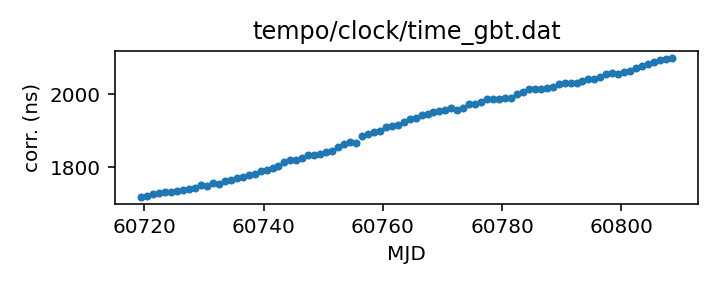
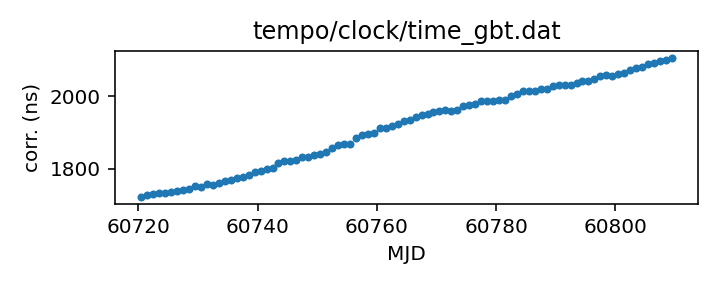
Routine gh-pages update from Github action Thu May 15 20:43:15 UTC 2025

diff --git a/status.md b/status.md
@@ -13,18 +13,18 @@ name of each clock file links to a page with more details.
 
 | Name | File | Corrections start | Corrections end | Last check date | Last check result 
 |:--- |:--- | --- | --- | --- |:--- 
-| [GPS to UTC](T2runtime/clock/gps2utc.clk.html) | `T2runtime/clock/gps2utc.clk` | 1993-01-01 MJD 48988.0 | 2025-04-29 MJD 60794.0 | 2025-05-14 | Unchanged 
-| [GPS to UTC (Combined Clock)](T2runtime/clock/gps2utc_cc.clk.html) | `T2runtime/clock/gps2utc_cc.clk` | 1993-01-01 MJD 48988.0 | 2025-04-29 MJD 60794.0 | 2025-05-14 | Unchanged 
-| [GPS to UTC (Corrected)](T2runtime/clock/gps2utc_c0p.clk.html) | `T2runtime/clock/gps2utc_c0p.clk` | 2010-12-29 MJD 55559.0 | 2025-04-29 MJD 60794.0 | 2025-05-14 | Unchanged 
-| [GBT](tempo/clock/time_gbt.dat.html) | `tempo/clock/time_gbt.dat` | 2000-12-31 MJD 51909.5 | 2025-05-13 MJD 60808.5 | 2025-05-14 | Updated 
-| [GBT (TEMPO2 converted from TEMPO)](T2runtime/clock/gbt2gps.clk.html) | `T2runtime/clock/gbt2gps.clk` | 2000-12-31 MJD 51909.5 | 2024-05-18 MJD 60448.5 | 2025-05-14 | **Validation failed** 
+| [GPS to UTC](T2runtime/clock/gps2utc.clk.html) | `T2runtime/clock/gps2utc.clk` | 1993-01-01 MJD 48988.0 | 2025-04-29 MJD 60794.0 | 2025-05-15 | Unchanged 
+| [GPS to UTC (Combined Clock)](T2runtime/clock/gps2utc_cc.clk.html) | `T2runtime/clock/gps2utc_cc.clk` | 1993-01-01 MJD 48988.0 | 2025-04-29 MJD 60794.0 | 2025-05-15 | Unchanged 
+| [GPS to UTC (Corrected)](T2runtime/clock/gps2utc_c0p.clk.html) | `T2runtime/clock/gps2utc_c0p.clk` | 2010-12-29 MJD 55559.0 | 2025-04-29 MJD 60794.0 | 2025-05-15 | Unchanged 
+| [GBT](tempo/clock/time_gbt.dat.html) | `tempo/clock/time_gbt.dat` | 2000-12-31 MJD 51909.5 | 2025-05-14 MJD 60809.5 | 2025-05-15 | Updated 
+| [GBT (TEMPO2 converted from TEMPO)](T2runtime/clock/gbt2gps.clk.html) | `T2runtime/clock/gbt2gps.clk` | 2000-12-31 MJD 51909.5 | 2024-05-18 MJD 60448.5 | 2025-05-15 | **Validation failed** 
 | [Jodrell Bank](T2runtime/clock/jb2gps.clk.html) | `T2runtime/clock/jb2gps.clk` | 2006-10-13 MJD 54021.4 | 2024-11-07 MJD 60621.0 | 2025-05-12 | Unchanged 
 | [Jodrell Bank Roach](T2runtime/clock/jbroach2jb.clk.html) | `T2runtime/clock/jbroach2jb.clk` | 2006-10-13 MJD 54021.4 | 2018-03-20 MJD 58197.6 | 2025-05-12 | Unchanged 
 | [Jodrell Bank DFB](T2runtime/clock/jbdfb2jb.clk.html) | `T2runtime/clock/jbdfb2jb.clk` | 2006-10-13 MJD 54021.4 | 2021-02-22 MJD 59268.0 | 2025-05-12 | Unchanged 
 | [Meerkat (observatory)](T2runtime/clock/mk2utc_observatory.clk.html) | `T2runtime/clock/mk2utc_observatory.clk` | 2019-01-01 MJD 58484.0 | 2025-04-30 MJD 60796.0 | 2025-05-12 | Updated 
-| [Leap seconds](tempo/clock/leap.sec.html) | `tempo/clock/leap.sec` | 1972-07-01 MJD 41499.0 | 2017-01-01 MJD 57754.0 | 2025-05-14 | Unchanged 
-| [UT1 table](tempo/clock/ut1.dat.html) | `tempo/clock/ut1.dat` | 1973-01-02 MJD 41684.0 | 2026-05-16 MJD 61176.0 | 2025-05-14 | Unchanged 
-| [UT1 table](T2runtime/clock/ut1.dat.html) | `T2runtime/clock/ut1.dat` | 1973-01-02 MJD 41684.0 | 2026-05-16 MJD 61176.0 | 2025-05-14 | Unchanged 
+| [Leap seconds](tempo/clock/leap.sec.html) | `tempo/clock/leap.sec` | 1972-07-01 MJD 41499.0 | 2017-01-01 MJD 57754.0 | 2025-05-15 | Unchanged 
+| [UT1 table](tempo/clock/ut1.dat.html) | `tempo/clock/ut1.dat` | 1973-01-02 MJD 41684.0 | 2026-05-23 MJD 61183.0 | 2025-05-15 | Updated 
+| [UT1 table](T2runtime/clock/ut1.dat.html) | `T2runtime/clock/ut1.dat` | 1973-01-02 MJD 41684.0 | 2026-05-23 MJD 61183.0 | 2025-05-15 | Updated 
 
 
 

diff --git a/T2runtime/clock/gbt2gps.clk.md b/T2runtime/clock/gbt2gps.clk.md
@@ -25,12 +25,11 @@ If questions arise about the conversion, contact Anne Archibald
 | Clock file start | 2000-12-31 MJD 51909.5 |
 | Clock file end | 2024-05-18 MJD 60448.5 |
 | Update interval (days) | 1 |
-| Last update attempt | 2025-05-14 |
+| Last update attempt | 2025-05-15 |
 | Last update result | Validation failed |
 
 Log entries from the last few update attempts:
 ```
-2025-05-05 20:37:50.823 - Validation failed: New version of T2runtime/clock/gbt2gps.clk clock corrections differ from old version where they overlap in 11 places
 2025-05-06 20:41:53.286 - Validation failed: New version of T2runtime/clock/gbt2gps.clk clock corrections differ from old version where they overlap in 11 places
 2025-05-07 20:42:58.428 - Validation failed: New version of T2runtime/clock/gbt2gps.clk clock corrections differ from old version where they overlap in 11 places
 2025-05-08 20:42:41.728 - Validation failed: New version of T2runtime/clock/gbt2gps.clk clock corrections differ from old version where they overlap in 11 places
@@ -40,6 +39,7 @@ Log entries from the last few update attempts:
 2025-05-12 20:38:43.627 - Validation failed: New version of T2runtime/clock/gbt2gps.clk clock corrections differ from old version where they overlap in 11 places
 2025-05-13 20:42:09.495 - Validation failed: New version of T2runtime/clock/gbt2gps.clk clock corrections differ from old version where they overlap in 11 places
 2025-05-14 20:35:36.803 - Validation failed: New version of T2runtime/clock/gbt2gps.clk clock corrections differ from old version where they overlap in 11 places
+2025-05-15 20:42:46.941 - Validation failed: New version of T2runtime/clock/gbt2gps.clk clock corrections differ from old version where they overlap in 11 places
 ```
 [Full log](https://raw.githubusercontent.com/ipta/pulsar-clock-corrections/main/log/T2runtime/clock/gbt2gps.clk.log)
 

diff --git a/T2runtime/clock/ut1.dat.md b/T2runtime/clock/ut1.dat.md
@@ -28,14 +28,13 @@ If there are any questions, contact Anne Archibald
 | File | `T2runtime/clock/ut1.dat` |
 | Authority | observatory |
 | File start | 1973-01-02 MJD 41684.0 |
-| File end | 2026-05-16 MJD 61176.0 |
+| File end | 2026-05-23 MJD 61183.0 |
 | Update interval (days) | 0 |
-| Last update attempt | 2025-05-14 |
-| Last update result | Unchanged |
+| Last update attempt | 2025-05-15 |
+| Last update result | Updated |
 
 Log entries from the last few update attempts:
 ```
-2025-05-05 20:37:59.825 - Updated
 2025-05-06 20:42:03.498 - Unchanged
 2025-05-07 20:43:11.839 - Unchanged
 2025-05-08 20:42:50.063 - Updated
@@ -45,5 +44,6 @@ Log entries from the last few update attempts:
 2025-05-12 20:39:05.877 - Unchanged
 2025-05-13 20:42:18.441 - Unchanged
 2025-05-14 20:35:45.846 - Unchanged
+2025-05-15 20:43:00.537 - Updated
 ```
 [Full log](https://raw.githubusercontent.com/ipta/pulsar-clock-corrections/main/log/T2runtime/clock/ut1.dat.log)

diff --git a/T2runtime/clock/gps2utc_cc.clk.md b/T2runtime/clock/gps2utc_cc.clk.md
@@ -29,12 +29,11 @@ about the BIPM's published corrections, contact <tai@bipm.org>.
 | Clock file start | 1993-01-01 MJD 48988.0 |
 | Clock file end | 2025-04-29 MJD 60794.0 |
 | Update interval (days) | 1 |
-| Last update attempt | 2025-05-14 |
+| Last update attempt | 2025-05-15 |
 | Last update result | Unchanged |
 
 Log entries from the last few update attempts:
 ```
-2025-05-05 14:30:52.164 - Updated
 2025-05-06 20:41:52.692 - Unchanged
 2025-05-07 20:42:57.540 - Unchanged
 2025-05-08 20:42:41.259 - Unchanged
@@ -44,6 +43,7 @@ Log entries from the last few update attempts:
 2025-05-12 20:38:41.978 - Failed to download: <urlopen error 530 Sorry, the maximum number of allowed clients (20) are already connected.>
 2025-05-13 20:42:09.234 - Updated
 2025-05-14 20:35:36.315 - Unchanged
+2025-05-15 20:42:46.087 - Unchanged
 ```
 [Full log](https://raw.githubusercontent.com/ipta/pulsar-clock-corrections/main/log/T2runtime/clock/gps2utc_cc.clk.log)
 

diff --git a/T2runtime/clock/gps2utc.clk.md b/T2runtime/clock/gps2utc.clk.md
@@ -32,12 +32,11 @@ about the BIPM's published corrections, contact <tai@bipm.org>.
 | Clock file start | 1993-01-01 MJD 48988.0 |
 | Clock file end | 2025-04-29 MJD 60794.0 |
 | Update interval (days) | 1 |
-| Last update attempt | 2025-05-14 |
+| Last update attempt | 2025-05-15 |
 | Last update result | Unchanged |
 
 Log entries from the last few update attempts:
 ```
-2025-05-05 18:13:27.985 - Unchanged
 2025-05-06 20:41:52.669 - Unchanged
 2025-05-07 20:42:57.518 - Unchanged
 2025-05-08 20:42:41.237 - Unchanged
@@ -47,6 +46,7 @@ Log entries from the last few update attempts:
 2025-05-12 20:38:40.470 - Failed to download: <urlopen error 530 Sorry, the maximum number of allowed clients (20) are already connected.>
 2025-05-13 20:42:09.175 - Updated
 2025-05-14 20:35:36.292 - Unchanged
+2025-05-15 20:42:46.065 - Unchanged
 ```
 [Full log](https://raw.githubusercontent.com/ipta/pulsar-clock-corrections/main/log/T2runtime/clock/gps2utc.clk.log)
 

diff --git a/tempo/clock/ut1.dat.md b/tempo/clock/ut1.dat.md
@@ -28,14 +28,13 @@ If there are any questions, contact Anne Archibald
 | File | `tempo/clock/ut1.dat` |
 | Authority | observatory |
 | File start | 1973-01-02 MJD 41684.0 |
-| File end | 2026-05-16 MJD 61176.0 |
+| File end | 2026-05-23 MJD 61183.0 |
 | Update interval (days) | 0 |
-| Last update attempt | 2025-05-14 |
-| Last update result | Unchanged |
+| Last update attempt | 2025-05-15 |
+| Last update result | Updated |
 
 Log entries from the last few update attempts:
 ```
-2025-05-05 20:37:59.773 - Updated
 2025-05-06 20:42:03.447 - Unchanged
 2025-05-07 20:43:11.787 - Unchanged
 2025-05-08 20:42:50.013 - Updated
@@ -45,5 +44,6 @@ Log entries from the last few update attempts:
 2025-05-12 20:39:05.826 - Unchanged
 2025-05-13 20:42:18.392 - Unchanged
 2025-05-14 20:35:45.796 - Unchanged
+2025-05-15 20:43:00.486 - Updated
 ```
 [Full log](https://raw.githubusercontent.com/ipta/pulsar-clock-corrections/main/log/tempo/clock/ut1.dat.log)

diff --git a/tempo/clock/time_gbt.dat.md b/tempo/clock/time_gbt.dat.md
@@ -36,14 +36,13 @@ If questions arise, contact Ryan S. Lynch <rlynch@nrao.edu>.
 | Format | tempo |
 | Bogus last correction | False |
 | Clock file start | 2000-12-31 MJD 51909.5 |
-| Clock file end | 2025-05-13 MJD 60808.5 |
+| Clock file end | 2025-05-14 MJD 60809.5 |
 | Update interval (days) | 1 |
-| Last update attempt | 2025-05-14 |
+| Last update attempt | 2025-05-15 |
 | Last update result | Updated |
 
 Log entries from the last few update attempts:
 ```
-2025-05-05 14:30:52.366 - Updated
 2025-05-06 20:41:53.233 - Updated
 2025-05-07 20:42:58.374 - Updated
 2025-05-08 20:42:41.675 - Updated
@@ -53,6 +52,7 @@ Log entries from the last few update attempts:
 2025-05-12 20:38:43.418 - Updated
 2025-05-13 20:42:09.442 - Updated
 2025-05-14 20:35:36.750 - Updated
+2025-05-15 20:42:46.888 - Updated
 ```
 [Full log](https://raw.githubusercontent.com/ipta/pulsar-clock-corrections/main/log/tempo/clock/time_gbt.dat.log)
 

diff --git a/T2runtime/clock/gps2utc_c0p.clk.md b/T2runtime/clock/gps2utc_c0p.clk.md
@@ -30,12 +30,11 @@ about the BIPM's published corrections, contact <tai@bipm.org>.
 | Clock file start | 2010-12-29 MJD 55559.0 |
 | Clock file end | 2025-04-29 MJD 60794.0 |
 | Update interval (days) | 1 |
-| Last update attempt | 2025-05-14 |
+| Last update attempt | 2025-05-15 |
 | Last update result | Unchanged |
 
 Log entries from the last few update attempts:
 ```
-2025-05-05 14:30:52.177 - Updated
 2025-05-06 20:41:52.700 - Unchanged
 2025-05-07 20:42:57.548 - Unchanged
 2025-05-08 20:42:41.267 - Unchanged
@@ -45,6 +44,7 @@ Log entries from the last few update attempts:
 2025-05-12 20:38:42.871 - Updated
 2025-05-13 20:42:09.242 - Unchanged
 2025-05-14 20:35:36.322 - Unchanged
+2025-05-15 20:42:46.095 - Unchanged
 ```
 [Full log](https://raw.githubusercontent.com/ipta/pulsar-clock-corrections/main/log/T2runtime/clock/gps2utc_c0p.clk.log)
 

diff --git a/tempo/clock/leap.sec.md b/tempo/clock/leap.sec.md
@@ -21,12 +21,11 @@ If there are any questions, contact Anne Archibald
 | File start | 1972-07-01 MJD 41499.0 |
 | File end | 2017-01-01 MJD 57754.0 |
 | Update interval (days) | 0 |
-| Last update attempt | 2025-05-14 |
+| Last update attempt | 2025-05-15 |
 | Last update result | Unchanged |
 
 Log entries from the last few update attempts:
 ```
-2025-05-05 20:37:50.850 - Unchanged
 2025-05-06 20:41:53.312 - Unchanged
 2025-05-07 20:42:58.453 - Unchanged
 2025-05-08 20:42:41.754 - Unchanged
@@ -36,5 +35,6 @@ Log entries from the last few update attempts:
 2025-05-12 20:38:58.053 - Unchanged
 2025-05-13 20:42:09.520 - Unchanged
 2025-05-14 20:35:36.829 - Unchanged
+2025-05-15 20:42:46.967 - Unchanged
 ```
 [Full log](https://raw.githubusercontent.com/ipta/pulsar-clock-corrections/main/log/tempo/clock/leap.sec.log)
